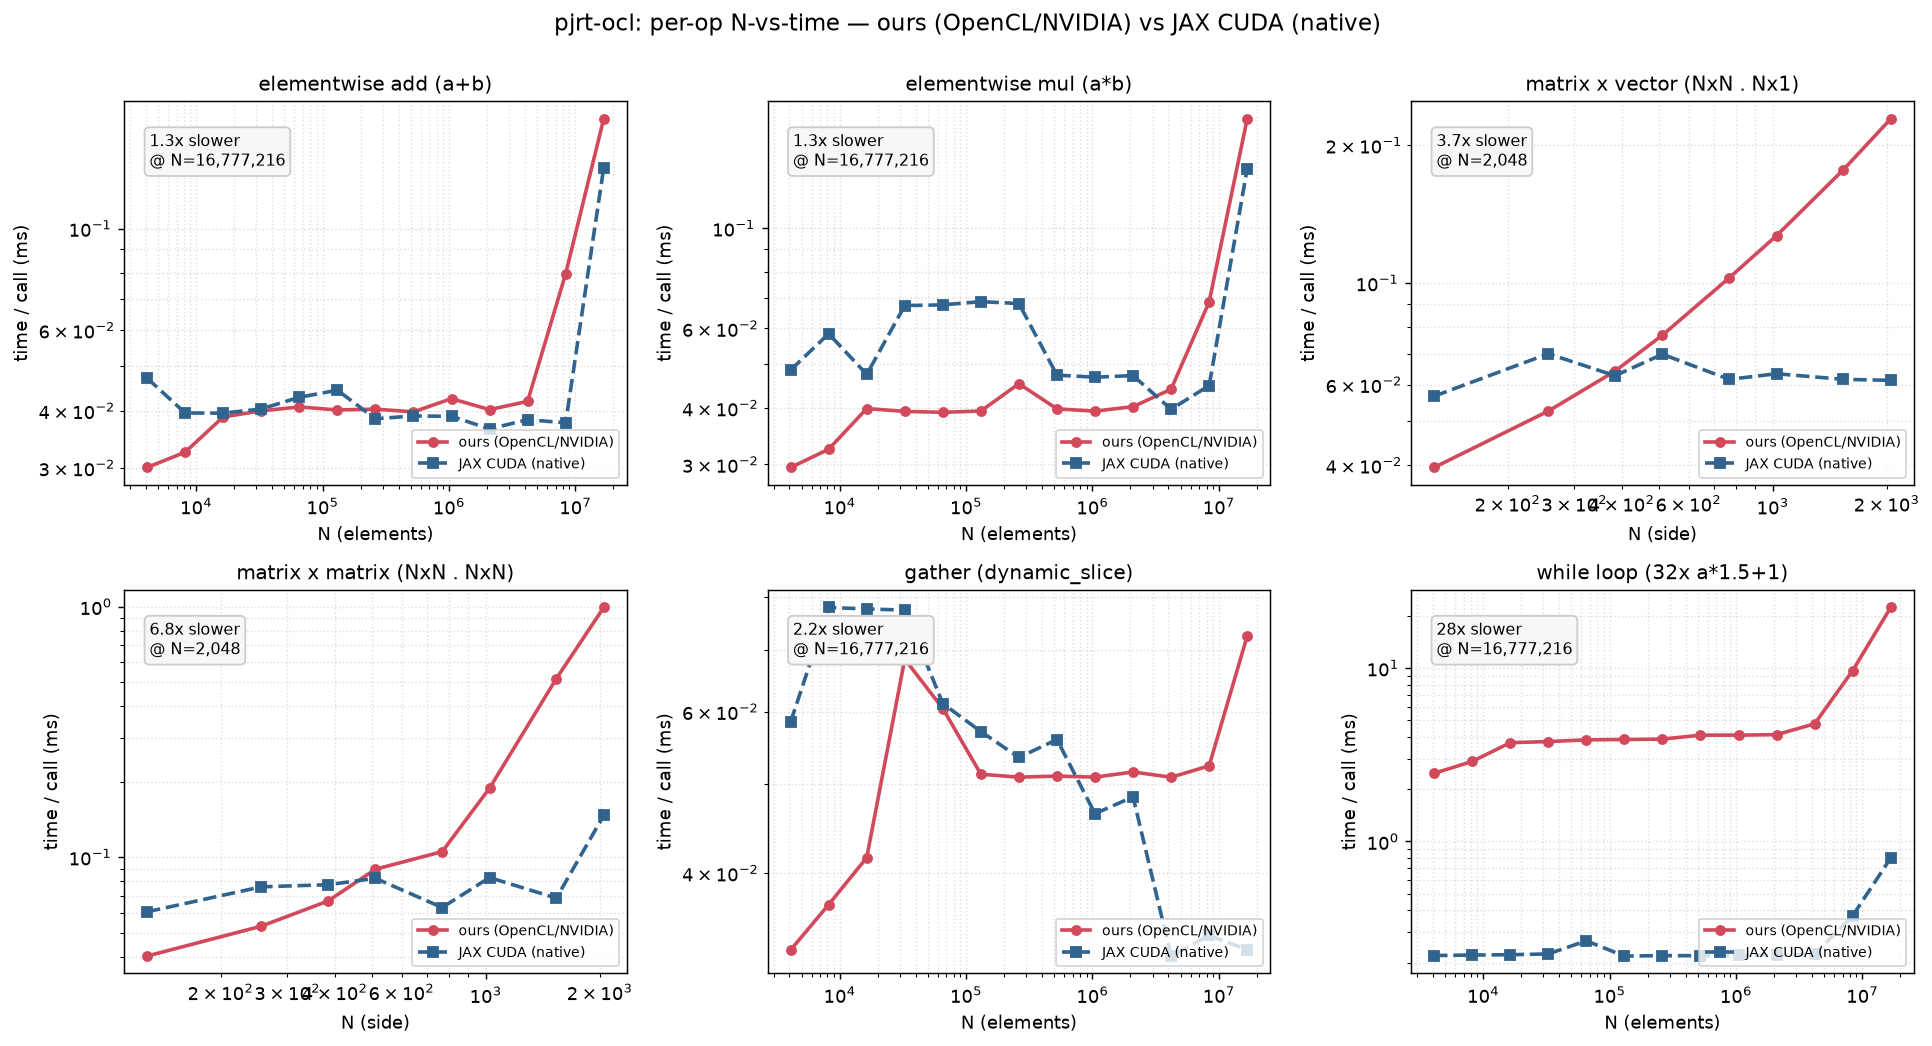
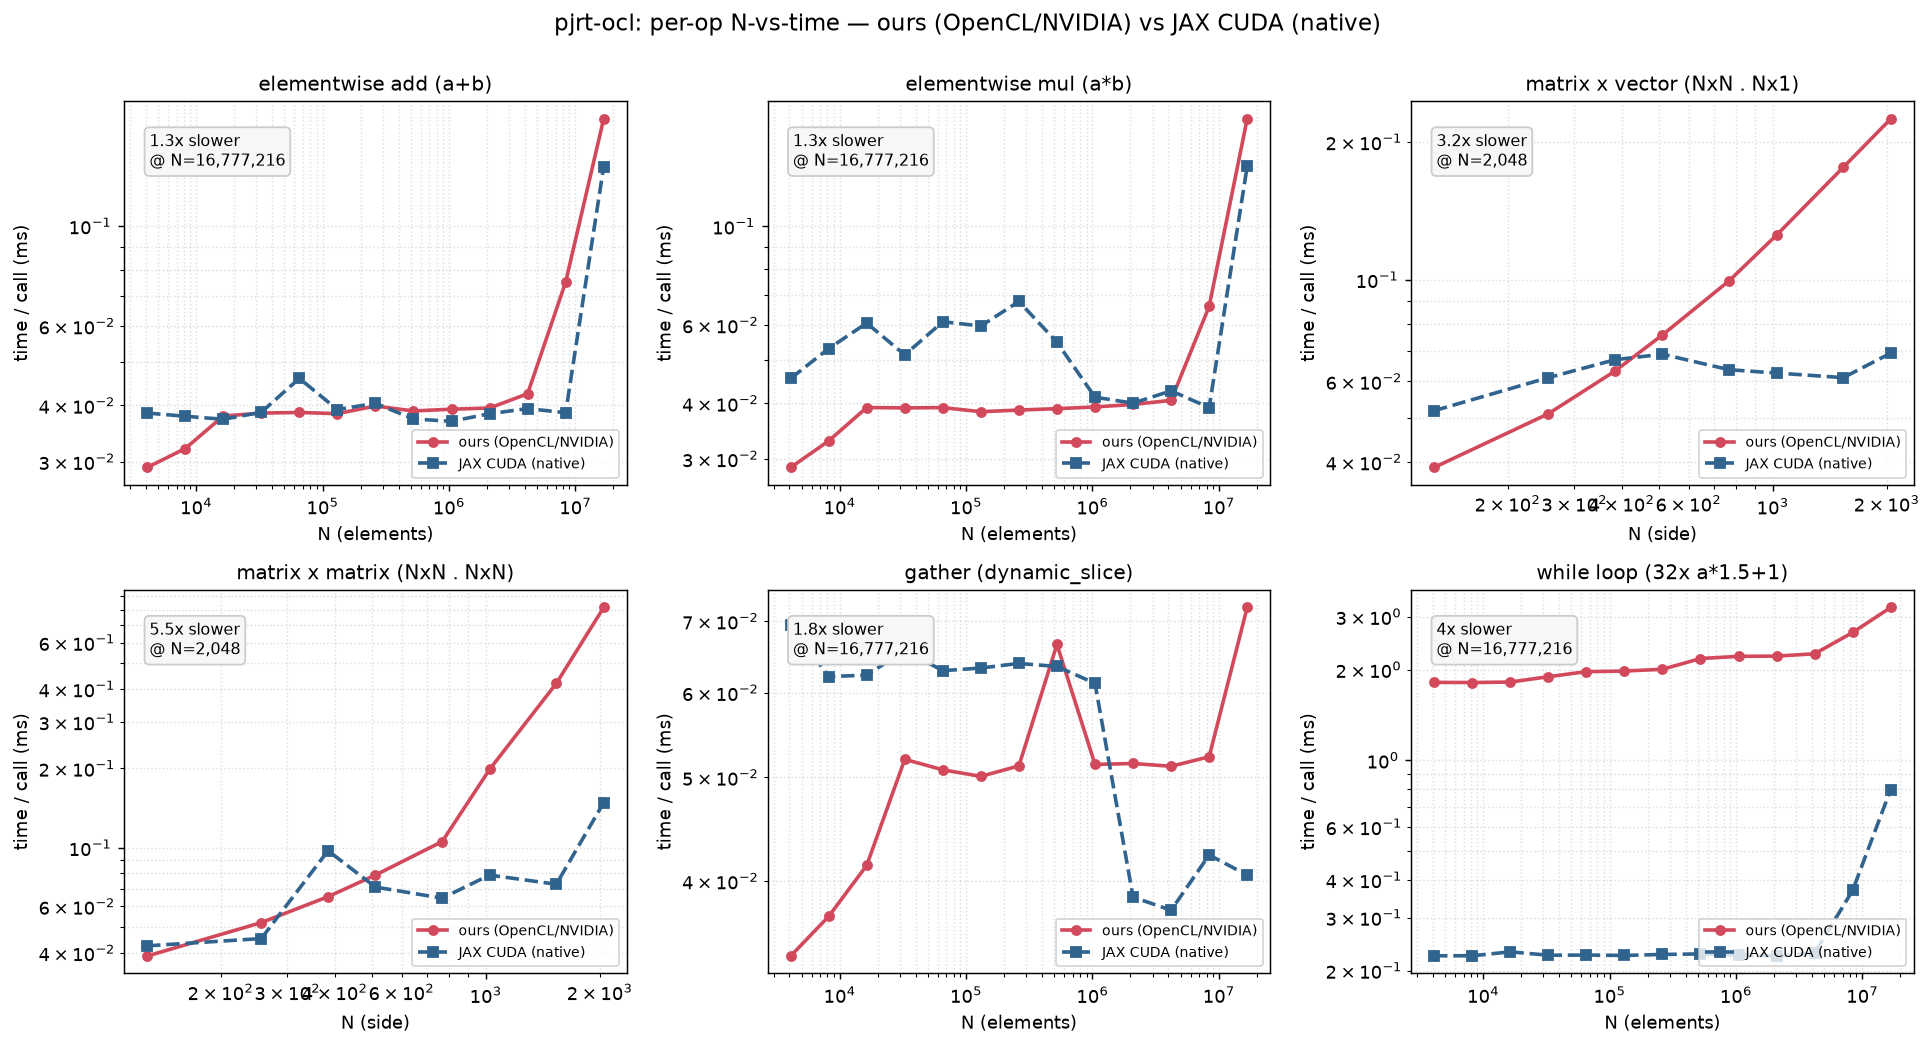
docs: refresh benchmark — while 28x->4x, matmul 6.8x->5.5x
Regenerate docs/bench_plot.png/.csv on the affine/in-place while engine + the
standalone mm2 large-matmul path (ours OpenCL/NVIDIA vs native JAX CUDA, same
Blackwell GPU). while @user: 22.5->3.2ms (28x->4x vs cuBLAS 0.80ms); matmul
@user: 0.99->0.82ms (6.8x->5.5x). Update the README Performance section and fix
plot_bench.py to load the canonical pjrt_plugin/build/ .so.

diff --git a/tools/plot_bench.py b/tools/plot_bench.py
@@ -149,7 +149,7 @@ def worker_env(backend: str, device: str, engine: str | None) -> dict:
         env["JAX_PLATFORMS"] = "opencl"
         env["PJRT_OCL_DEVICE"] = device
         env.setdefault("PJRT_OCL_PLUGIN_PATH",
-                       str(REPO / "build" / "pjrt_plugin" / "libpjrt_ocl.so"))
+                       str(REPO / "pjrt_plugin" / "build" / "libpjrt_ocl.so"))
         if engine:
             env["PJRT_OCL_ENGINE"] = engine
     else:

diff --git a/README.md b/README.md
@@ -147,12 +147,21 @@ Takeaways (higher = slower; both axes log):
 - **`matrix × vector`** ~3.7x — memory-bound but routed through the tiled MMA
   kernel, which wastes most of a tile on a width-1 RHS; a dedicated GEMV kernel
   would close most of this.
-- **`dot_general`** ~6.8x off cuBLAS at 2048³ — expected: cuBLAS uses TF32
-  tensor cores, which OpenCL cannot reach. A tuned OpenCL f32 kernel (kernel-
-  table override) can narrow it, but tensor-core parity isn't attainable here.
-- **`while` loops** are the biggest gap (~28x): every iteration pays a
-  cross-workgroup barrier + host/device control round-trip. Loop-body fusion and
-  cheaper per-iteration sync are the open wins.
+- **`dot_general`** ~5.5x off cuBLAS at 2048³. Large matmul now runs a
+  **standalone SGEMM** (`mm2`, launched outside the megakernel so an 8×4 register
+  tile doesn't inflate the shared register budget) — 17→21 TFLOP/s at 2048.
+  But cuBLAS hits **134 TFLOP/s at 4096, above Blackwell's f32 peak**, i.e. it is
+  TF32 **tensor-core** bound; a portable f32 kernel can't reach that. Closing the
+  rest needs an NVIDIA-only TF32 tensor-core tile (inline-PTX WMMA behind the
+  kernel-table override — the `mm2` dispatch path is built to host it).
+- **`while` loops** went from **~28x to ~4x** at 16M elements. Three fixes:
+  (1) an **affine op** `d = a·s + t` that folds scalar-constant scale/bias
+  (`x*1.5+1` was materializing two full-length broadcast buffers per iteration →
+  now one fused pass); (2) **in-place carry updates** so a loop-carried buffer
+  stays L2-resident across iterations instead of being copied twice per step; and
+  (3) a **contention-free barrier spin** (coherent `atomic_load` instead of an
+  atomic RMW that ping-ponged the phase cache line across ~376 workgroups). The
+  affine folding is a general win for any `x*c`/`x+c`/affine chain.
 
 The remaining end-to-end gap on the closest ops is largely fixed jax→PJRT
 per-dispatch overhead, which amortizes in real fused programs.
@@ -277,9 +286,10 @@ core path, and it never assumes fp64. Design decisions and their rationale live 
   launch per phase. This is required on CPU — an in-kernel spin-barrier deadlocks on a
   non-preemptive CPU runtime (imbalance-starvation; it's why OpenCL mandates kernel
   boundaries for cross-group sync). Override with `PJRT_OCL_ENGINE=host|mega|auto`.
-- Performance is improving but not yet tuned: matmul runs a register-blocked tile kernel;
-  memory-bound ops are currently limited by arena-copy traffic (see
-  [`docs/perf-findings.md`](docs/perf-findings.md)).
+- Performance is improving but not yet tuned. Elementwise/gather are near CUDA;
+  large matmul uses a standalone SGEMM but full parity needs TF32 tensor cores
+  (inline-PTX WMMA behind the kernel-table override — not yet built); `while` is
+  down to ~4x via affine folding + in-place carries (see `docs/decisions.md` §9).
 
 ## License
 